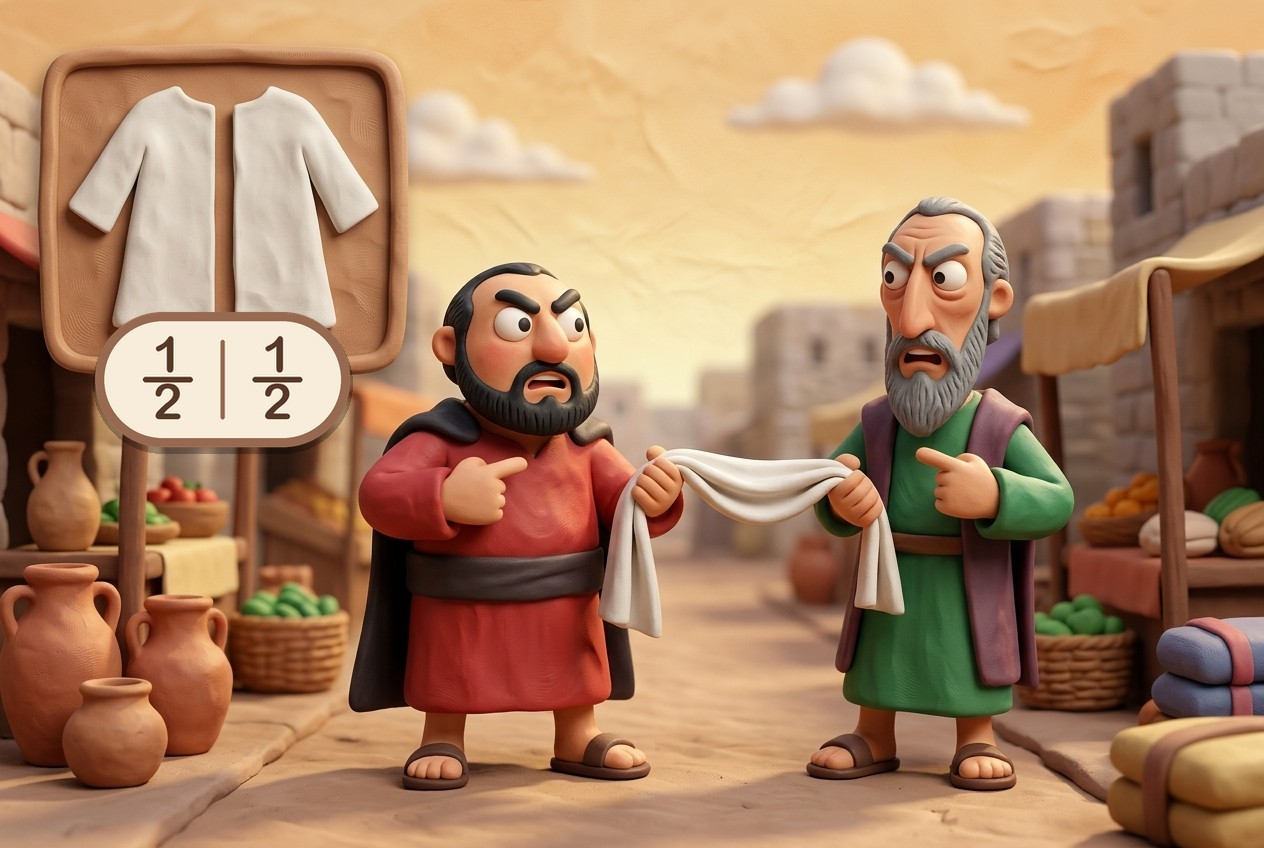
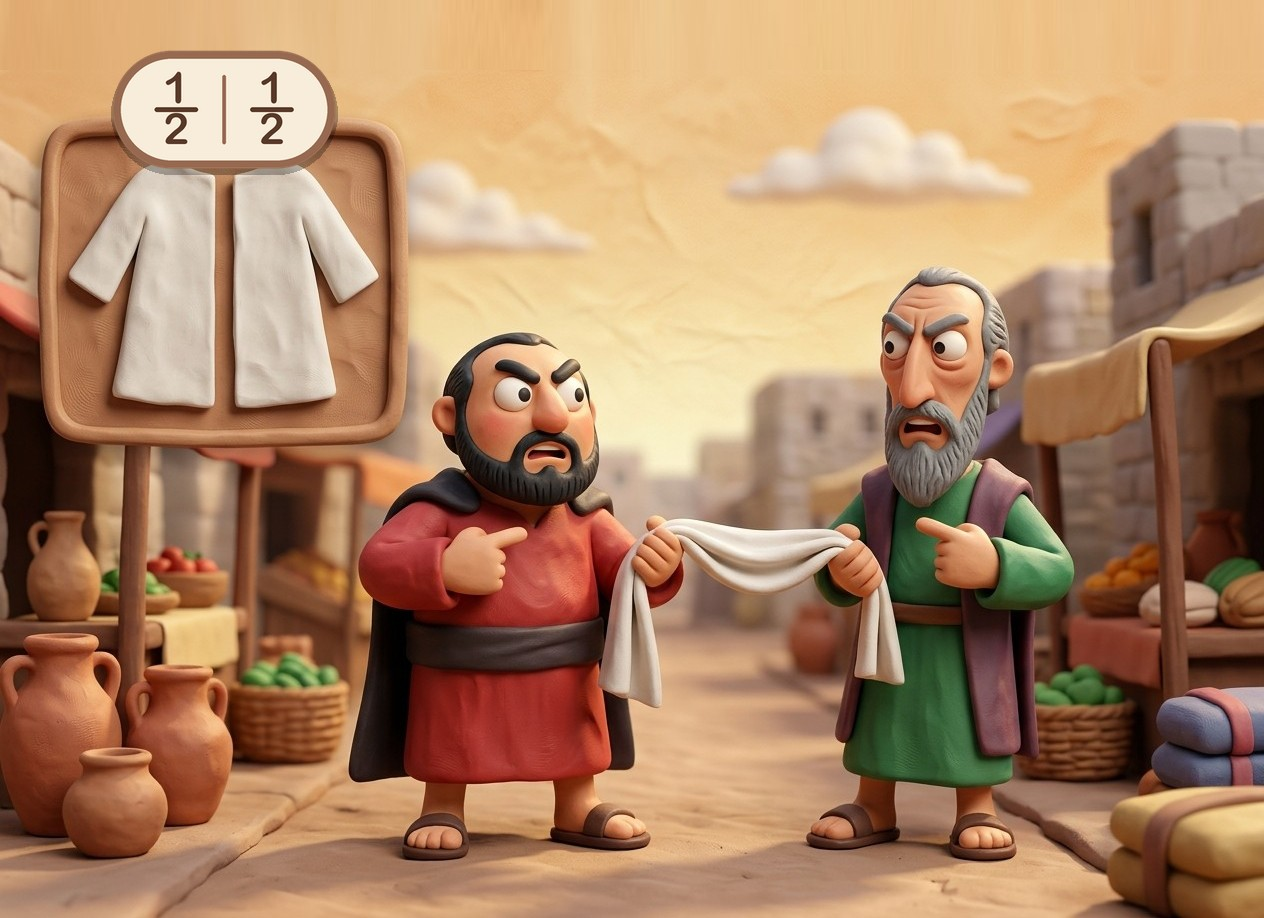
Fraction pills toward the top: 1:1 on the sign board's top edge, 1:2 between the two men

diff --git a/AnyMishnahWeb/scripts/compose_bm1_fractions.py b/AnyMishnahWeb/scripts/compose_bm1_fractions.py
@@ -1,8 +1,14 @@
-"""Overlay the fraction pills on the two cloak pictures (BM 1:1), centered just under the outcome sign board."""
+"""Fraction pills for BM 1:1 and 1:2. Placement rule (author): toward the TOP, where least happens in the picture.
+1:1: centered on the top edge of the outcome sign board (canvas padded at the top so nothing is cut off).
+1:2: centered between the two men, straddling the top frame of each box."""
 import base64, io, json, sys, urllib.request
 from PIL import Image, ImageDraw
 sys.path.insert(0, __file__.rsplit("/", 1)[0])
-from detect_boxes import KEY
+from detect_boxes import KEY, detect
+def pill(im, bd, cx, cy, w):
+    h = int(bd.height * w / bd.width); b = bd.resize((w, h), Image.LANCZOS)
+    sh = Image.new("RGBA", (w + 20, h + 20), (0, 0, 0, 0)); ImageDraw.Draw(sh).rounded_rectangle([10, 14, w + 10, h + 14], radius=h // 2, fill=(0, 0, 0, 70))
+    im.paste(sh, (int(cx - w / 2 - 10), int(cy - h / 2 - 10)), sh); im.paste(b, (int(cx - w / 2), int(cy - h / 2)), b)
 def sign_box(im):
     W, H = im.size; buf = io.BytesIO(); im.save(buf, "JPEG", quality=88)
     tool = {"name": "b", "description": "box", "input_schema": {"type": "object", "properties": {k: {"type": "number"} for k in ("left", "top", "right", "bottom")}, "required": ["left", "top", "right", "bottom"]}}
@@ -11,9 +17,14 @@ def sign_box(im):
             {"type": "text", "text": f"The image is {W}x{H} pixels. Give the outer pixel bounds of the square framed wooden sign board (on a post, at the upper left) that shows a white garment cut in two pieces."}]}]}
     req = urllib.request.Request("https://api.anthropic.com/v1/messages", data=json.dumps(body).encode(), headers={"x-api-key": KEY, "anthropic-version": "2023-06-01", "content-type": "application/json"})
     return [b for b in json.load(urllib.request.urlopen(req, timeout=120))["content"] if b["type"] == "tool_use"][0]["input"]
+def pad_top(im, px):
+    out = Image.new("RGB", (im.width, im.height + px)); out.paste(im, (0, px))
+    strip = im.crop((0, 0, im.width, 6)).resize((im.width, px), Image.BICUBIC); out.paste(strip, (0, 0)); return out, px
+SRC = "data/generated_originals/bm1/"
 for name, badge in (("bm1-1a", "half-half"), ("bm1-1b", "3q-1q")):
-    im = Image.open(f"data/generated_originals/bm1/{name}.jpg").convert("RGB"); b = sign_box(im); bd = Image.open(f"site/img/badge-{badge}.png")
-    w = int((b["right"] - b["left"]) * 0.72); h = int(bd.height * w / bd.width); bd = bd.resize((w, h), Image.LANCZOS)
-    cx = (b["left"] + b["right"]) / 2; y = int(b["bottom"] - 0.62 * h - 6)
-    sh = Image.new("RGBA", (w + 20, h + 20), (0, 0, 0, 0)); ImageDraw.Draw(sh).rounded_rectangle([10, 14, w + 10, h + 14], radius=h // 2, fill=(0, 0, 0, 70))
-    im.paste(sh, (int(cx - w / 2 - 10), y - 10), sh); im.paste(bd, (int(cx - w / 2), y), bd); im.save(f"site/img/{name}.jpg", quality=90); print(name, b)
+    im = Image.open(SRC + name + ".jpg").convert("RGB"); b = sign_box(im); im, off = pad_top(im, 70)
+    bd = Image.open(f"site/img/badge-{badge}.png"); pill(im, bd, (b["left"] + b["right"]) / 2, b["top"] + off - 2, int((b["right"] - b["left"]) * 0.62))
+    im.save(f"site/img/{name}.jpg", quality=90); print(name, b)
+im, boxes = detect(SRC + "bm1-2.jpg"); im = im.convert("RGB"); bd = Image.open("site/img/badge-half-half.png")
+for b in sorted(boxes, key=lambda b: b["left"])[:2]: pill(im, bd, (b["left"] + b["right"]) / 2, b["top"] - 4, 118)
+im.save("site/img/bm1-2.jpg", quality=90); print("bm1-2")

diff --git a/AnyMishnahWeb/STYLE_BIBLE.md b/AnyMishnahWeb/STYLE_BIBLE.md
@@ -119,3 +119,6 @@ By eye at full size, clean on the first try: 1:1a, 1:1b, 1:2, 1:4a, 1:4b, 1:7 (6
 
 ## RULE: read the source commentary before writing a brief; never add a mechanism the source does not state (author, 2026-10-09)
 Before drafting any brief or prompt, read R. Kulp's commentary on that mishnah (and Kehati once available) and take the legal condition from it exactly. Do not invent physical details to dramatize a condition. Example (BM 1:4): Kulp's condition is that the animal is physically unable to leave the field; I wrongly added a fenced field and a closed gate, so the deer could not have got in and the scene looked like a circle dance. The correct picture shows the ANIMAL's inability (a deer with a splinted leg lying on the grass) and the contrast (a healthy deer bounding away); no fence appears anywhere. Check each brief by asking: 'where does the source say this?'
+
+## RULE: where overlay symbols go (author, 2026-10-09)
+Place badges and fraction pills TOWARD THE TOP of the picture or box, where least happens, so they never cover a hand, face or object that matters (and read first). Where a symbol describes a relation between two people (a split between them), put it between them, centered on the top edge of the frame. BM 1:1: centered on the top edge of the sign board (canvas padded 70px at the top so nothing is clipped). BM 1:2: centered between the two men on the top frame of each box. Do not default to a box's upper-right corner: that was only a convenient default in BK 5 and BM 1:5, and should be reviewed picture by picture for what it covers.

diff --git a/AnyMishnahWeb/CLAUDE.md b/AnyMishnahWeb/CLAUDE.md
@@ -97,3 +97,5 @@ Site now has two chapters: /bava-kamma-5 and /bava-metzia-1 (build_site.py is mu
 Round 8 (author's review of BM 1): see STYLE_BIBLE.md 'Round 8'. Redo prompts: data/bava_metzia_1_prompts_v3.md (1:2 edit line, 1:4 pair, 1:5 pair as two scenes, 1:7 with distinct cast). Fraction overlays live in scripts/fraction_badge.py and compose_bm1_fractions.py (applied to 1:1a/1:1b). 1:2, 1:4, 1:5, 1:7 pictures are hidden on the site (layer1 keys prefixed _pending_) until the redos arrive; restore by renaming the keys.
 
 RULE (author): read R. Kulp's commentary (and later Kehati) on a mishnah BEFORE writing its brief/prompt; take the condition from the source exactly and add no mechanism it does not state (see STYLE_BIBLE.md). BM 1:4 was wrong for this reason; corrected prompts in data/bava_metzia_1_prompts_v3.md. Status: 1:2 and 1:5a good (1:2 carries half|half overlays); remaining: 1:4 pair, 1:5b, 1:7.
+
+Overlay placement rule (author): symbols go toward the TOP, where least happens; relation symbols (splits) go between the two people. See STYLE_BIBLE.md. scripts/compose_bm1_fractions.py implements it for BM 1:1 and 1:2. BK 5's badges are still in upper-right box corners and BM 1's person tags float above heads: review them against this rule.
